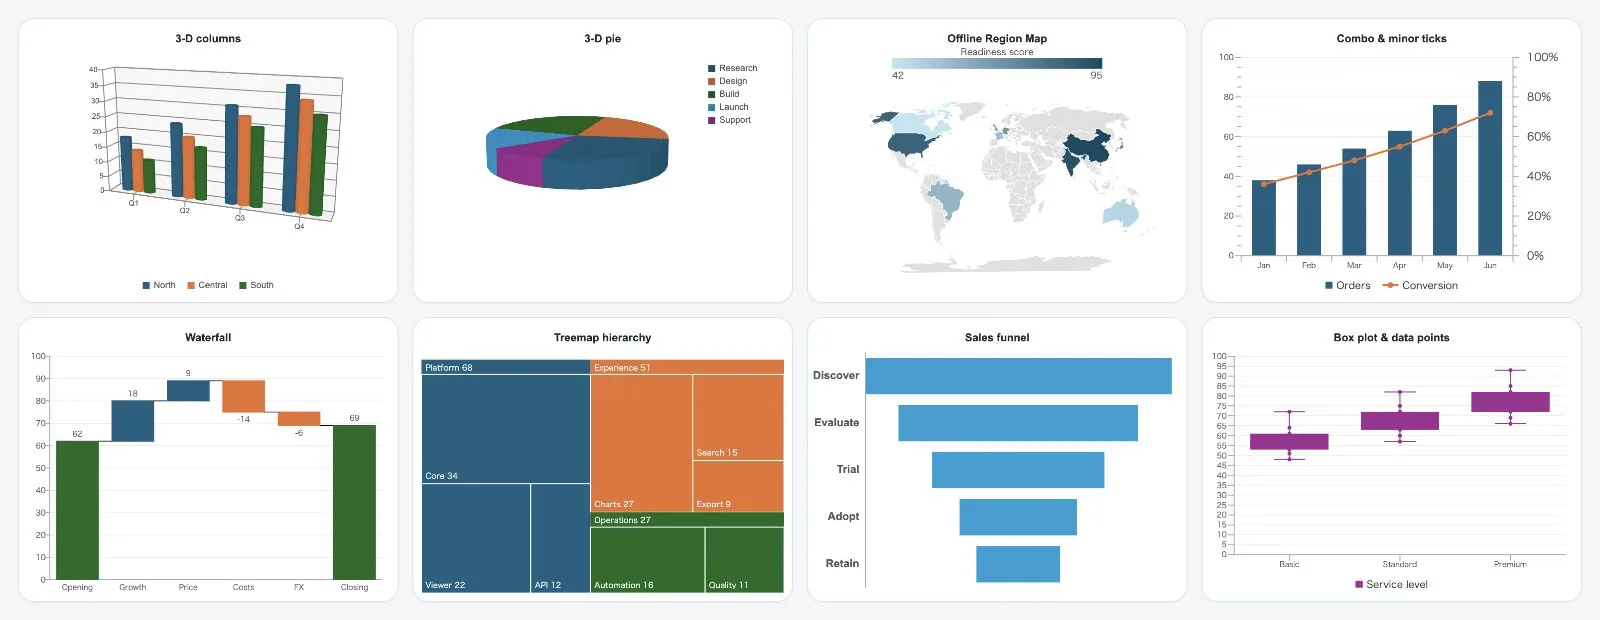
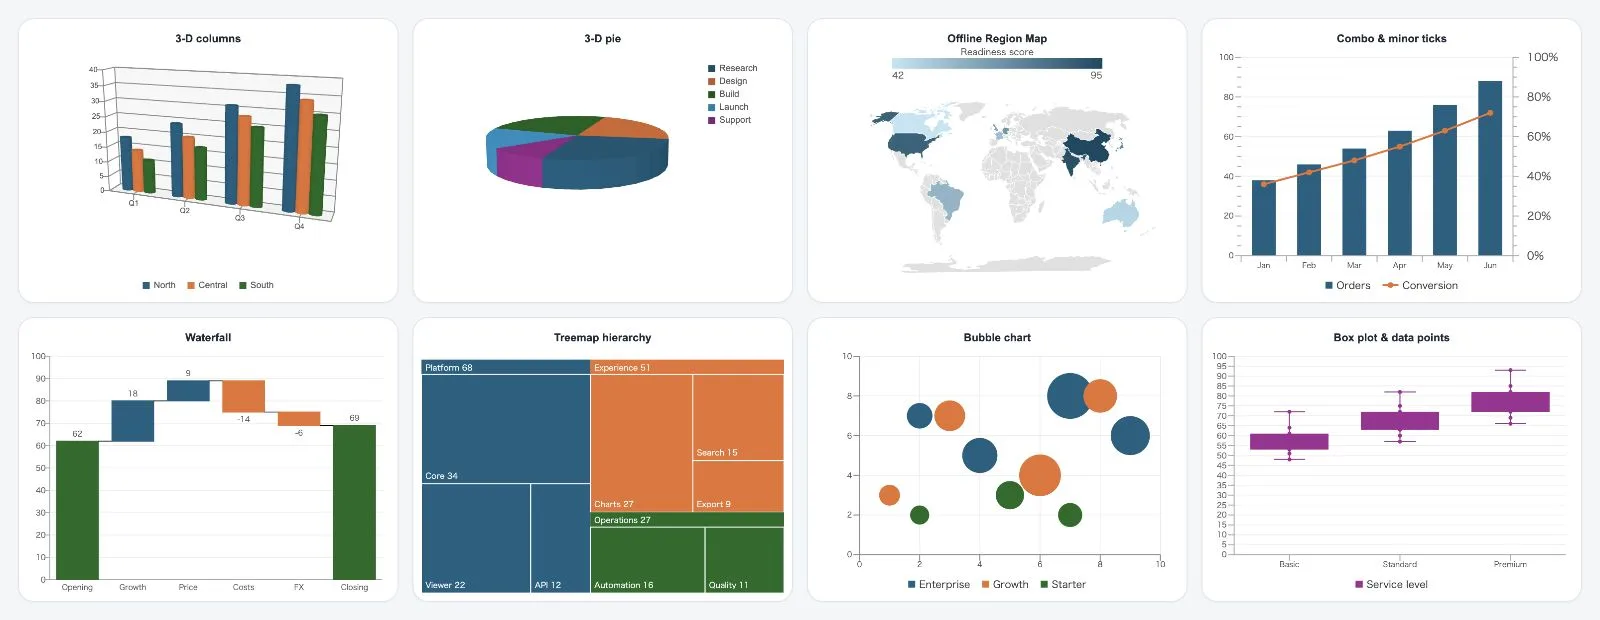
docs(site): showcase bubble chart fidelity
Replace the synthetic funnel panel with a multi-series bubble chart that demonstrates numeric X/Y axes and area-proportional bubble sizing. Keep the announcement alternative text synchronized with the rendered gallery.\n\nVerified with site content tests, Astro production build, browser visual review and git diff checks.\n\nCo-Authored-By: Codex GPT-5 <noreply@openai.com>

Changed region(s): [[0.5, 0.521, 0.75, 0.95], [0.5, 0.8887, 0.5625, 0.9194], [0.5, 0.8274, 0.5312, 0.8581]]

diff --git a/site/src/lib/announcements.ts b/site/src/lib/announcements.ts
@@ -45,7 +45,7 @@ export const announcements: readonly Announcement[] = [
     audience: 'Applications that display Office charts. Existing applications keep the 2-D fallback without source changes; import the optional add-ons only when authored 3-D charts or country-level Region Maps are required.',
     image: {
       src: '/announcements/chart-rendering-v079.webp',
-      alt: 'A grid of eight synthetic chart renderings: 3-D columns, 3-D pie, an offline country Region Map, a combo chart with minor ticks, waterfall, treemap, funnel and box-and-whisker charts.',
+      alt: 'A grid of eight synthetic chart renderings: 3-D columns, 3-D pie, an offline country Region Map, a combo chart with minor ticks, waterfall, treemap, bubble and box-and-whisker charts.',
       caption: 'Rendered by @silurus/ooxml from synthetic data. The map uses public-domain Natural Earth geometry; no Office, Bing or private-document artwork is reproduced.',
     },
     sections: [
